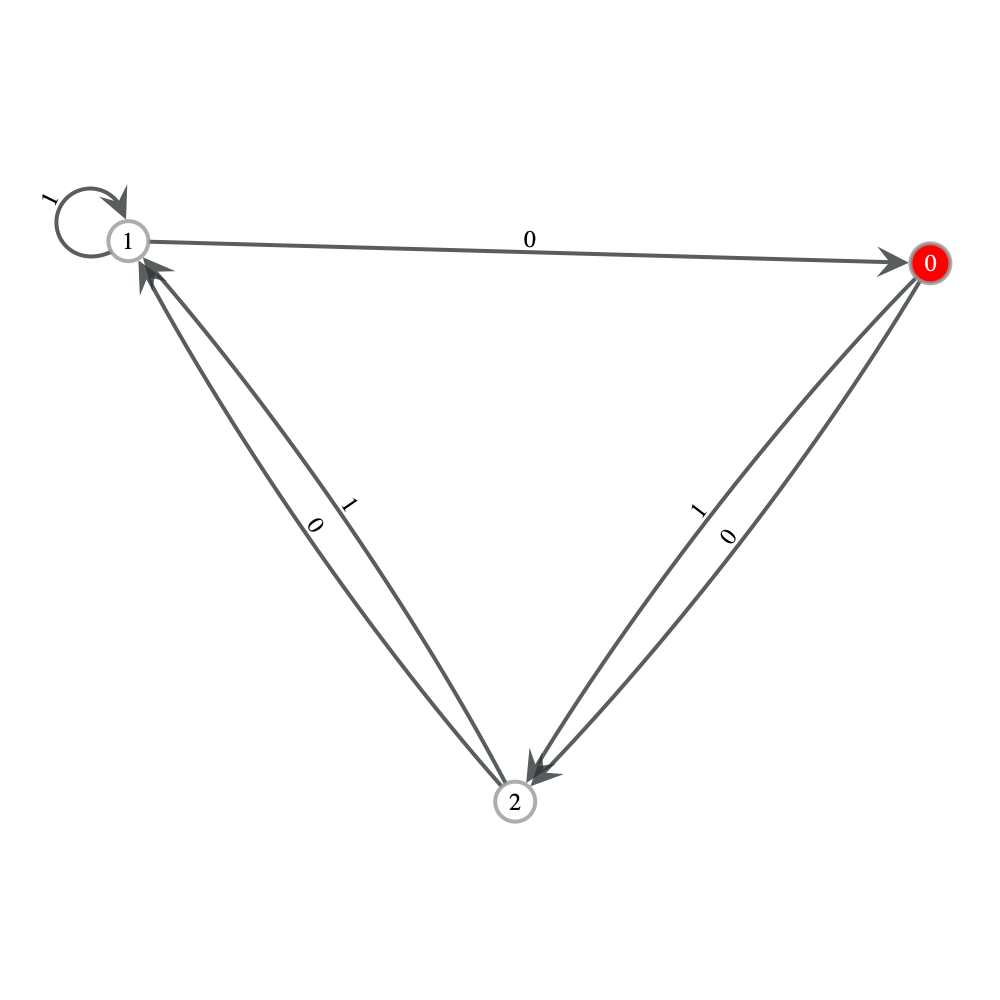
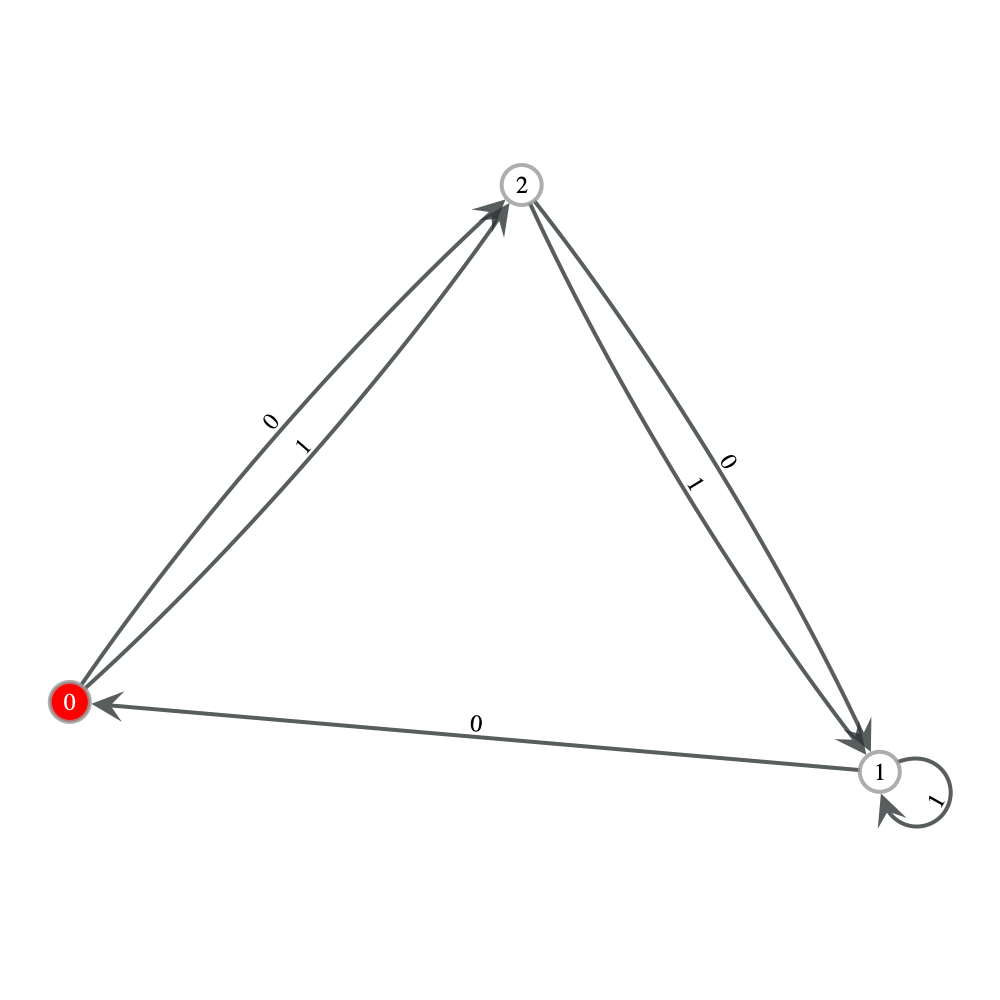
Adding in NFA class.

diff --git a/src/nfa.py b/src/nfa.py
@@ -1,21 +1,30 @@
 from graph_tool import Graph
 from graph_tool.draw import graph_draw
 
-class DFA:
+class NFA:
     def __init__(self, states, alphabet, delta, initial_state, final_states):
         self.states = states
-        self.alphabet = alphabet
+        self.alphabet = alphabet + ["_"]
         self.delta = delta
         self.initial_state = initial_state
         self.final_states = final_states
 
+    def epsilon_set(self, state_set):
+        return set().union(*[self.delta[state]["_"] for state in state_set])
+        
+    def epsilon_closure(self, state_set):
+        eps_set = self.epsilon_set(state_set)
+        if eps_set.issubset(state_set):
+            return state_set
+        return self.epsilon_closure(state_set.union(eps_set))
+        
     def compute(self, input_string, verbose=False):
-        states = [self.initial_state]
+        states = [self.epsilon_closure(set([self.initial_state]))]
         for symbol in input_string:
-            states.append(self.delta[states[-1]][symbol])
+            states.append(self.epsilon_closure(set().union(*[self.delta[state][symbol] for state in states[-1]])))
         if verbose:
             print(states)
-        return states[-1] in self.final_states
+        return len(states[-1].intersection(self.final_states)) > 0
 
     def verdict(self, input_string):
         if self.compute(input_string):
@@ -33,11 +42,12 @@ class DFA:
             else:
                 vprop_dict[g.vertex(state)] = "white"
             for symbol in self.alphabet:
-                e = g.add_edge(
-                    g.vertex(state),
-                    g.vertex(self.delta[state][symbol])
+                for destination in self.delta[state][symbol]:
+                    e = g.add_edge(
+                        g.vertex(state),
+                        g.vertex(destination)
                 )
-                eprop_dict[e] = symbol
+                    eprop_dict[e] = symbol
         graph_draw(
             g,
             vertex_text=g.vertex_index,
@@ -50,19 +60,21 @@ class DFA:
         )
 
 if __name__ == "__main__":
-    d = DFA([0, 1, 2],
+    d = NFA([0, 1, 2, 3],
             ["0", "1"],
             {
-                0: {"0": 2, "1": 2},
-                1: {"0": 0, "1": 1},
-                2: {"0": 1, "1": 1}
+                0: {"0": {0}, "1": {0, 1}, "_": set()},
+                1: {"0": {2}, "1": set(), "_": {2}},
+                2: {"0": set(), "1": {3}, "_": set()},
+                3: {"0": {3}, "1": {3}, "_": set()}
             },
             0,
-            [0]
+            [3]
     )
     input_1 = "111"
     input_2 = "000"
+    input_3 = "10101"
     print(f"d {d.verdict(input_1)}s the string 111")
     print(f"d {d.verdict(input_2)}s the string 000")
+    print(f"d {d.verdict(input_3)}s the string 10101")
     d.graph("../output/test.png")
-    
